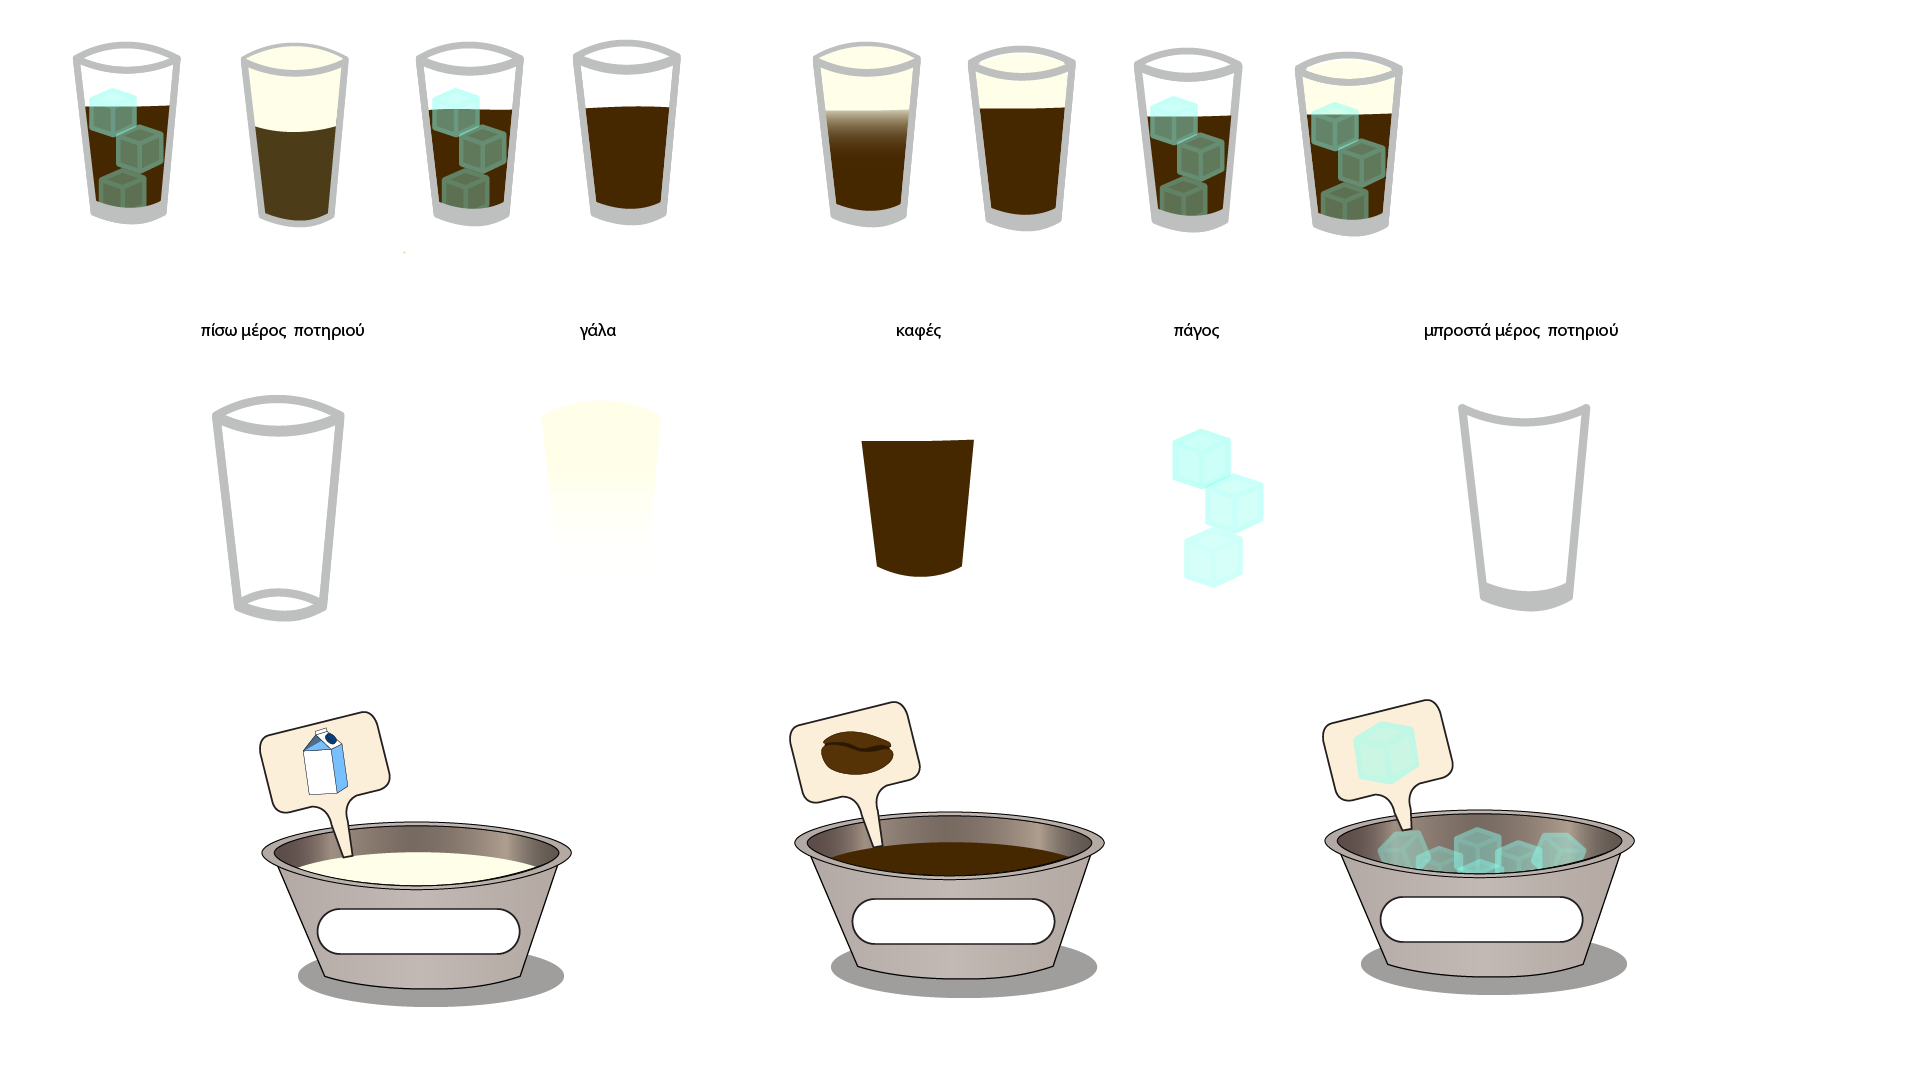
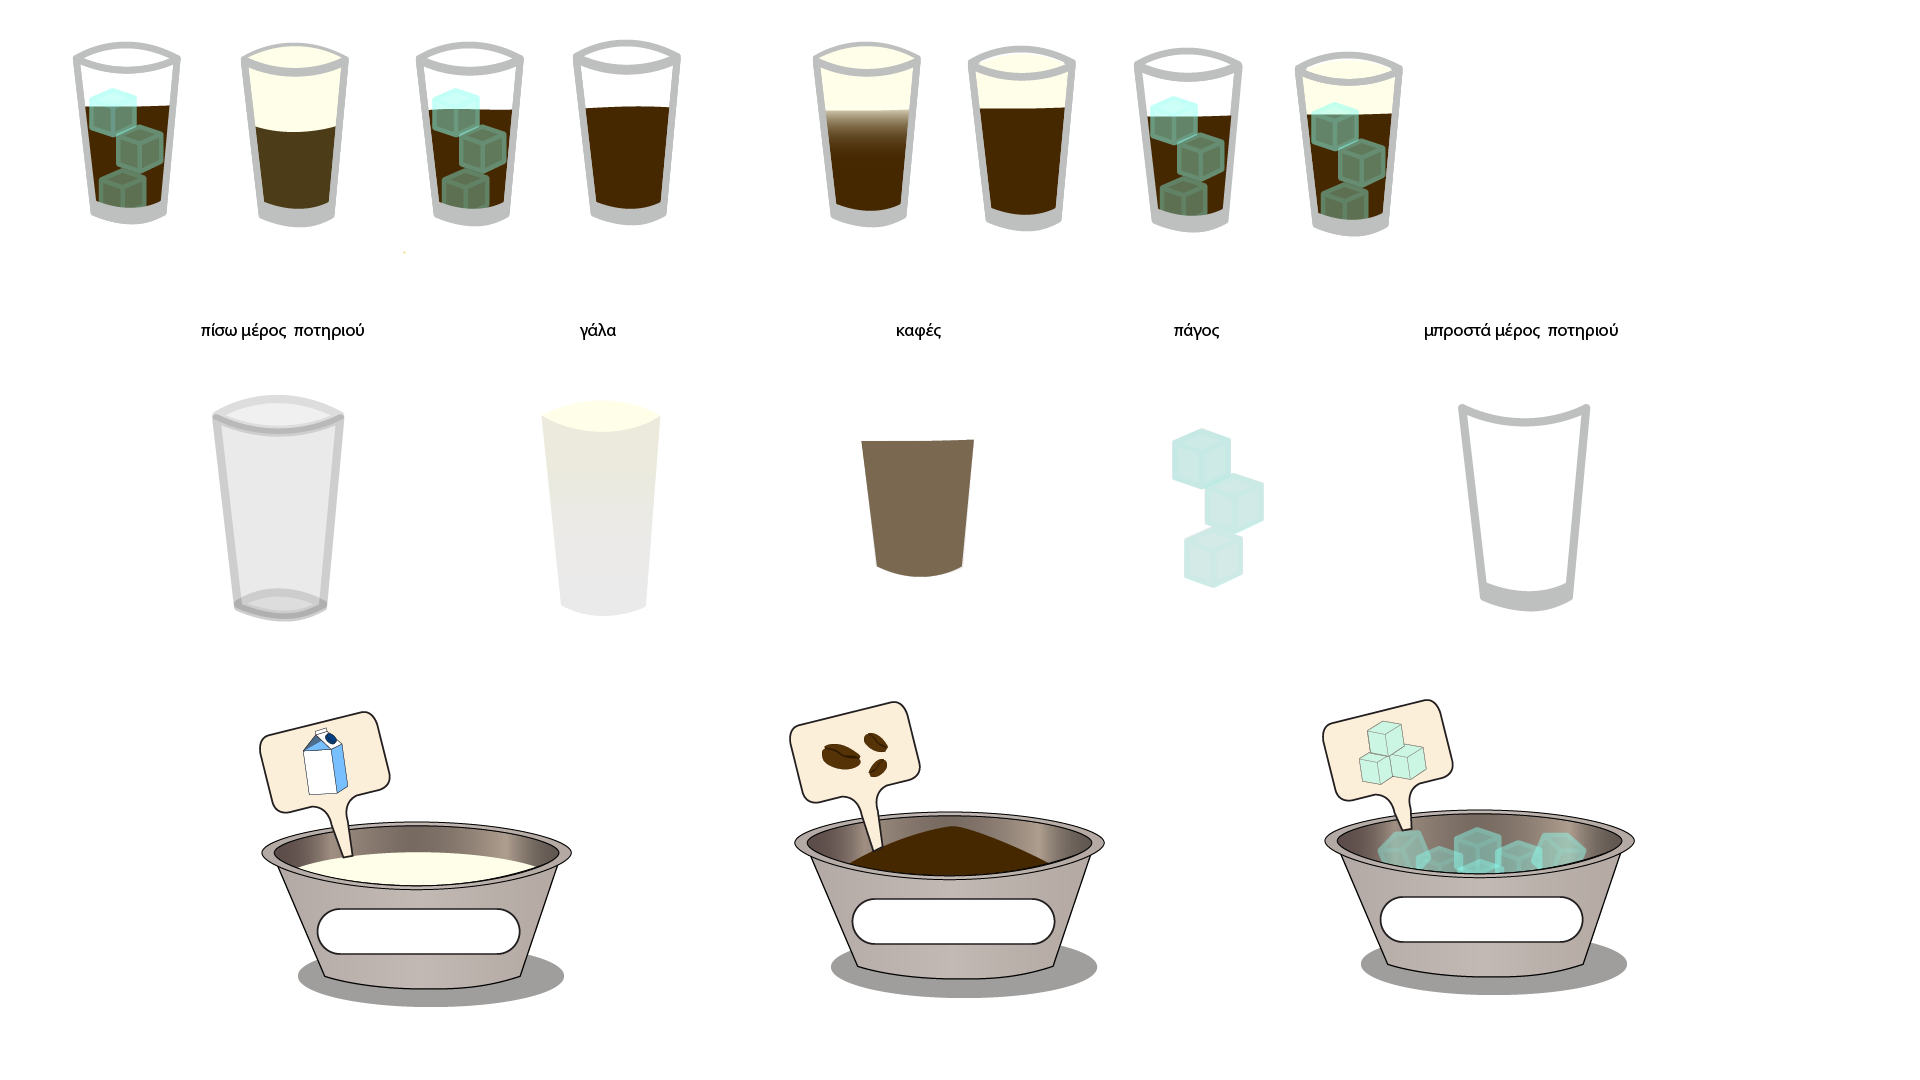
Daily 3/11/2020
Coffee recipes now show properly, without breaking other recipes' functionality. Updated graphics. Random ingredients appear in a more orderly manner. Level 4 recipes are done. Added some screen resolution recognition.

diff --git a/Assets/Scripts/CameraScript.cs b/Assets/Scripts/CameraScript.cs
@@ -1,0 +1,47 @@
+using System.Collections;
+using System.Collections.Generic;
+using UnityEditor;
+using UnityEngine;
+
+public class CameraScript : MonoBehaviour
+{
+    // Start is called before the first frame update
+    void Start()
+    {
+        //find the camera's aspect
+        // and change its aspect accordingly
+        if (Camera.main.aspect < 1.26f)
+        {
+            Debug.Log("5:4");
+        }
+        else if (Camera.main.aspect < 1.34f)
+        {
+            Debug.Log("4:3");
+        }
+        else if (Camera.main.aspect < 1.48f)//1920/1300
+        {
+            Debug.Log("<1.48");
+        }
+        else if (Camera.main.aspect < 1.57f)
+        {
+            Debug.Log("16:10");
+        }
+        else if (Camera.main.aspect < 1.78f)//1920/1080
+        { 
+            Debug.Log("16:9"); 
+        }
+        else if (Camera.main.aspect < 2.06f)//2960/1440
+        { 
+            Debug.Log("<2.06f"); 
+        }
+        Debug.Log("CurrentRatio is: " + Camera.main.aspect);
+        //Camera.main.orthographicSize += Camera.main.aspect/2;
+
+    }
+
+    // Update is called once per frame
+    void Update()
+    {
+        
+    }
+}

diff --git a/Assets/Scripts/FoodLayersScript.cs b/Assets/Scripts/FoodLayersScript.cs
@@ -198,15 +198,16 @@ public class FoodLayersScript : MonoBehaviour
         }
         else if (ingredientname == "Coffee_Down")
         {
-            //ingredientsprite = Resources.LoadAll<Sprite>("προϊόντα/canteen_coffee")[8];
-            ingredientsprite = Resources.LoadAll<Sprite>("προϊόντα/canteen_coffee")[12];
+            ingredientsprite = Resources.LoadAll<Sprite>("προϊόντα/canteen_coffee")[8];
+            //ingredientsprite = Resources.LoadAll<Sprite>("προϊόντα/canteen_coffee")[12];
             return ingredientsprite;
         }
         else if (ingredientname == "Coffee_Up")
         {
-            //ingredientsprite = Resources.LoadAll<Sprite>("προϊόντα/canteen_coffee")[12];
-            ingredientsprite = Resources.LoadAll<Sprite>("προϊόντα/canteen_coffee")[8];
-            return ingredientsprite;
+            /*ingredientsprite = Resources.LoadAll<Sprite>("προϊόντα/canteen_coffee")[12];
+            //ingredientsprite = Resources.LoadAll<Sprite>("προϊόντα/canteen_coffee")[8];
+            return ingredientsprite;*/
+            return null;
         }
 
 
